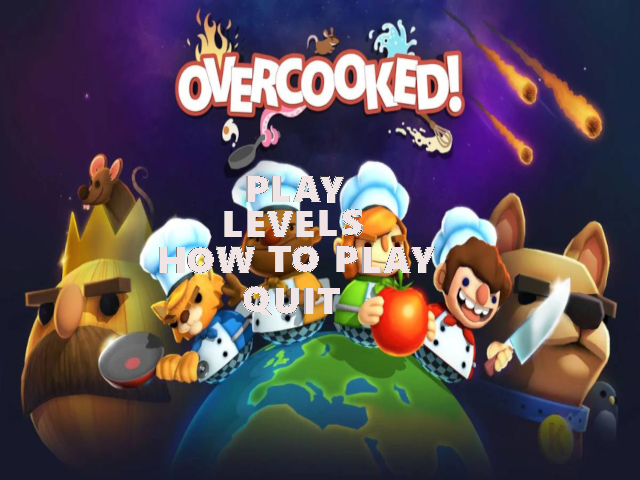
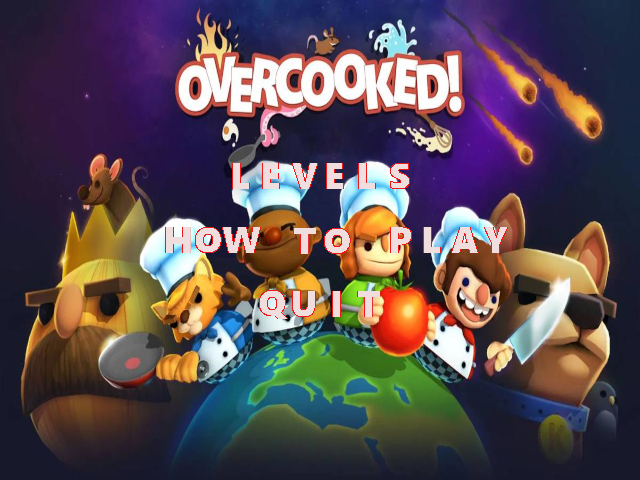
Menu Vermell

Changed region(s): [[0.25, 0.3438, 0.8125, 0.6562], [0.375, 0.5938, 0.5312, 0.6875]]

diff --git a/Overcooked/Overcooked/Menu.cpp b/Overcooked/Overcooked/Menu.cpp
@@ -67,11 +67,11 @@ void Menu::changePosition()
 	case Menu::MAIN:
 		switch (currentPosition)
 		{
-		case 0: setPosition(glm::vec2(11.5f * 32.f, 6.45f * 32.f));
+		case 0: setPosition(glm::vec2(12.75f * 32.f, 5.f * 32.f));
 			break;
-		case 1: setPosition(glm::vec2(13.5f * 32.f, 7.60f * 32.f));
+		case 1: setPosition(glm::vec2(15.75f * 32.f, 7.f * 32.f));
 			break;
-		case 2: setPosition(glm::vec2(10.5f * 32.f, 8.9f * 32.f));
+		case 2: setPosition(glm::vec2(11.75f * 32.f, 9.f * 32.f));
 			break;
 		default:
 			break;
@@ -98,11 +98,11 @@ void Menu::changePosition()
 	case Menu::PAUSE:
 		switch (currentPosition)
 		{
-		case 0: setPosition(glm::vec2(12.75f * 32.f, 6.8f * 32.f));
+		case 0: setPosition(glm::vec2(12.75f * 32.f, 6.2f * 32.f));
 			break;
-		case 1: setPosition(glm::vec2(14.75f * 32.f, 7.9f * 32.f));
+		case 1: setPosition(glm::vec2(15.75f * 32.f, 8.2f * 32.f));
 			break;
-		case 2: setPosition(glm::vec2(11.25f * 32.f, 9.05f * 32.f));
+		case 2: setPosition(glm::vec2(11.75f * 32.f, 10.2f * 32.f));
 			break;
 		default:
 			break;
